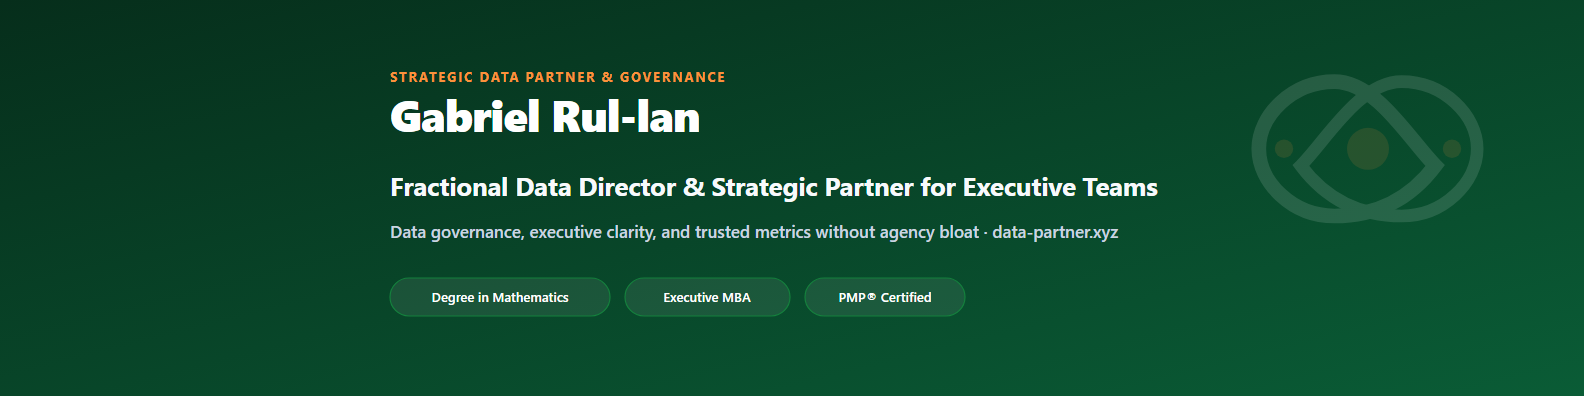
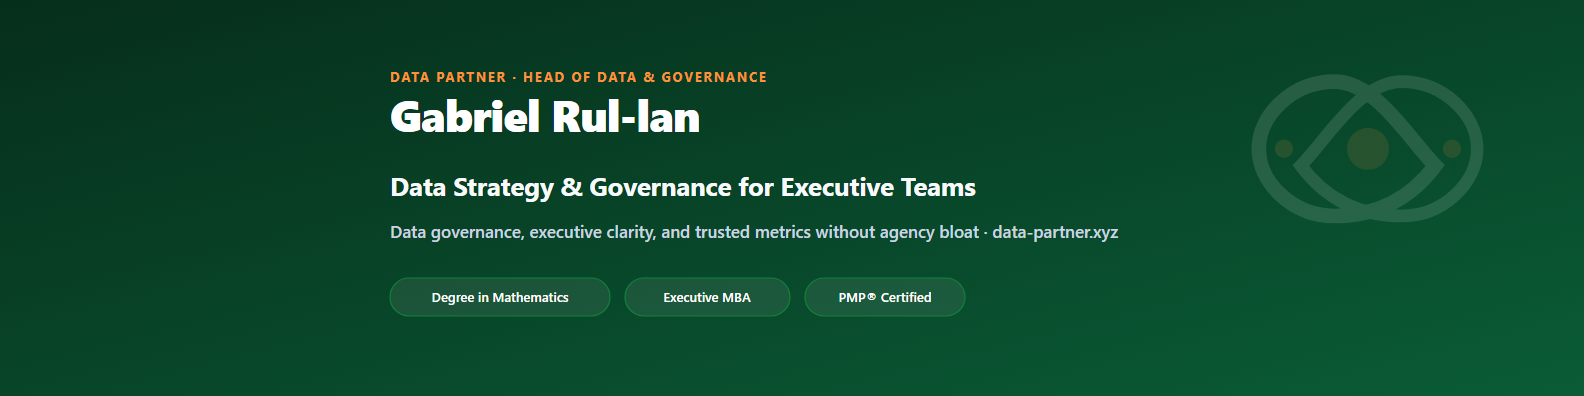
Use Data Partner as primary brand identity and replace Fraccional in Brand Kit

Changed region(s): [[0.2475, 0.4545, 0.7424, 0.5152], [0.2475, 0.1818, 0.4949, 0.2121]]

diff --git a/web/brand/index.html b/web/brand/index.html
@@ -98,7 +98,7 @@
                 </header>
 
                 <div class="matrix-logo-preview">
-                  <img src="./assets/logos/p1-logo-es-light.svg" alt="Propuesta 1: El Socio Analítico - Logotipo principal" width="220" height="40">
+                  <img src="./assets/logos/p1-logo-en-light.svg" alt="Propuesta 1: El Socio Analítico - Logotipo principal" width="220" height="40">
                 </div>
 
                 <h4 class="matrix-section-title">Concepto &amp; Filosofía</h4>
@@ -135,7 +135,7 @@
                 </header>
 
                 <div class="matrix-logo-preview">
-                  <img src="./assets/logos/p2-logo-es-light.svg" alt="Propuesta 2: El Socio Colaborativo - Logotipo principal" width="220" height="40">
+                  <img src="./assets/logos/p2-logo-en-light.svg" alt="Propuesta 2: El Socio Colaborativo - Logotipo principal" width="220" height="40">
                 </div>
 
                 <h4 class="matrix-section-title">Concepto &amp; Filosofía</h4>
@@ -172,7 +172,7 @@
                 </header>
 
                 <div class="matrix-logo-preview">
-                  <img src="./assets/logos/p3-logo-es-light.svg" alt="Propuesta 3: El Socio Corporativo - Logotipo principal" width="220" height="40">
+                  <img src="./assets/logos/p3-logo-en-light.svg" alt="Propuesta 3: El Socio Corporativo - Logotipo principal" width="220" height="40">
                 </div>
 
                 <h4 class="matrix-section-title">Concepto &amp; Filosofía</h4>
@@ -209,7 +209,7 @@
                 </header>
 
                 <div class="matrix-logo-preview">
-                  <img src="./assets/logos/p4-logo-es-light.svg" alt="Propuesta 4: El Socio de Confianza - Logotipo principal" width="220" height="40">
+                  <img src="./assets/logos/p4-logo-en-light.svg" alt="Propuesta 4: El Socio de Confianza - Logotipo principal" width="220" height="40">
                 </div>
 
                 <h4 class="matrix-section-title">Concepto &amp; Filosofía</h4>
@@ -309,12 +309,12 @@
             <div class="bizcard-inner">
               <div class="bizcard-face bizcard-front">
                 <div class="bizcard-front-top">
-                  <img id="bizcardLogo" class="bizcard-front-logo" src="./assets/logos/p1-logo-es-light.svg" alt="Gabriel Rul-lan Logotipo Anverso">
+                  <img id="bizcardLogo" class="bizcard-front-logo" src="./assets/logos/p1-logo-en-light.svg" alt="Gabriel Rul-lan Logotipo Anverso">
                   <div class="bizcard-front-chip"></div>
                 </div>
                 <div class="bizcard-front-bottom">
                   <div class="bizcard-name">Gabriel Rul-lan</div>
-                  <div class="bizcard-title">Director de Datos Fraccional &amp; Socio Estratégico</div>
+                  <div class="bizcard-title">Data Partner · Dirección de Datos y Estrategia</div>
                   <div class="bizcard-contact">gabriel@data-partner.xyz · data-partner.xyz</div>
                 </div>
               </div>
@@ -342,7 +342,7 @@
                   <span class="linkedin-name">Gabriel Rul-lan</span>
                   <span class="linkedin-badge" aria-label="Perfil verificado">✓</span>
                 </div>
-                <p class="linkedin-headline">Director de Datos Fraccional &amp; Socio Estratégico · Matemático &amp; MBA · PMP® · Claridad de datos para comités de dirección</p>
+                <p class="linkedin-headline">Data Partner · Dirección de Datos y Estrategia · Matemático &amp; MBA · PMP® · Claridad de datos para comités de dirección</p>
               </div>
             </div>
           </div>
@@ -355,7 +355,7 @@
           <div class="a4-mockup-wrapper">
             <div class="a4-sheet">
               <div>
-                <img id="a4Logo" class="a4-top-logo" src="./assets/logos/p1-logo-es-light.svg" alt="Logotipo Portada Informe">
+                <img id="a4Logo" class="a4-top-logo" src="./assets/logos/p1-logo-en-light.svg" alt="Logotipo Portada Informe">
               </div>
               <div>
                 <div class="a4-badge">Confidencial · Comité de Dirección</div>

diff --git a/web/brand/js/brand.js b/web/brand/js/brand.js
@@ -30,32 +30,32 @@
       accent: '#C2410C',
       muted: '#64748B',
       border: '#E2E8F0',
-      taglineEs: 'Director de Datos Fraccional & Socio Estratégico',
-      taglineEn: 'Fractional Data Director & Strategic Partner'
+      taglineEs: 'Data Partner · Dirección de Datos y Estrategia',
+      taglineEn: 'Data Partner · Fractional Head of Data & Governance'
     },
     p2: {
       primary: '#0A5C36',
       accent: '#EA580C',
       muted: '#4B5563',
       border: '#E5E7EB',
-      taglineEs: 'Director de Datos Fraccional & Socio Estratégico',
-      taglineEn: 'Fractional Data Director & Strategic Partner'
+      taglineEs: 'Data Partner · Dirección de Datos y Estrategia',
+      taglineEn: 'Data Partner · Fractional Head of Data & Governance'
     },
     p3: {
       primary: '#0B132B',
       accent: '#D97706',
       muted: '#475569',
       border: '#CBD5E1',
-      taglineEs: 'Director de Datos Fraccional & Socio Estratégico',
-      taglineEn: 'Fractional Data Director & Strategic Partner'
+      taglineEs: 'Data Partner · Dirección de Datos y Estrategia',
+      taglineEn: 'Data Partner · Fractional Head of Data & Governance'
     },
     p4: {
       primary: '#0F4C5C',
       accent: '#E36414',
       muted: '#52525B',
       border: '#E2E8F0',
-      taglineEs: 'Director de Datos Fraccional & Socio Estratégico',
-      taglineEn: 'Fractional Data Director & Strategic Partner'
+      taglineEs: 'Data Partner · Dirección de Datos y Estrategia',
+      taglineEn: 'Data Partner · Fractional Head of Data & Governance'
     }
   };
 
@@ -368,7 +368,7 @@
     // 5. Component Sandbox explicit assets
     var bizLogo = document.getElementById('bizcardLogo');
     if (bizLogo) {
-      bizLogo.src = './assets/logos/' + proposalId + '-logo-es-light.svg';
+      bizLogo.src = './assets/logos/' + proposalId + '-logo-en-light.svg';
     }
 
     var bizMark = document.getElementById('bizcardMark');
@@ -383,7 +383,7 @@
 
     var a4Logo = document.getElementById('a4Logo');
     if (a4Logo) {
-      a4Logo.src = './assets/logos/' + proposalId + '-logo-es-light.svg';
+      a4Logo.src = './assets/logos/' + proposalId + '-logo-en-light.svg';
     }
 
     // 6. Update Email Signature

diff --git a/web/brand/templates/a4-report.html b/web/brand/templates/a4-report.html
@@ -384,7 +384,7 @@
     <header class="doc-header">
       <div class="brand-block">
         <h1>Gabriel Rul-lan</h1>
-        <div class="brand-subtitle">Dirección de Datos &amp; Alianza Estratégica</div>
+        <div class="brand-subtitle">Data Partner · Dirección de Datos y Estrategia</div>
       </div>
       <div class="meta-block">
         <div><strong>Documento:</strong> HRD-14D-CONFIDENCIAL</div>
@@ -477,7 +477,7 @@
     <div class="sign-section">
       <div class="author-block">
         <h3>Gabriel Rul-lan</h3>
-        <p><strong>Director de Datos Fraccional &amp; Socio Estratégico</strong></p>
+        <p><strong>Data Partner · Dirección de Datos y Estrategia</strong></p>
         <p>Licenciado en Matemáticas · Executive MBA · Certificación PMP®</p>
         <p>gabriel@data-partner.xyz · data-partner.xyz</p>
       </div>

diff --git a/web/brand/assets/signatures/signature-p1-en.html b/web/brand/assets/signatures/signature-p1-en.html
@@ -13,7 +13,7 @@
         </tr>
         <tr>
           <td style="font-size: 12px; font-weight: 600; color: #C2410C; text-transform: uppercase; letter-spacing: 0.05em; padding-top: 2px;">
-            Fractional Data Director &amp; Strategic Partner
+            Data Partner · Fractional Head of Data &amp; Governance
           </td>
         </tr>
         <tr>

diff --git a/web/brand/assets/signatures/signature-p2-en.html b/web/brand/assets/signatures/signature-p2-en.html
@@ -13,7 +13,7 @@
         </tr>
         <tr>
           <td style="font-size: 12px; font-weight: 600; color: #EA580C; text-transform: uppercase; letter-spacing: 0.05em; padding-top: 2px;">
-            Fractional Data Director &amp; Strategic Partner
+            Data Partner · Fractional Head of Data &amp; Governance
           </td>
         </tr>
         <tr>

diff --git a/web/brand/assets/signatures/signature-p3-en.html b/web/brand/assets/signatures/signature-p3-en.html
@@ -13,7 +13,7 @@
         </tr>
         <tr>
           <td style="font-size: 12px; font-weight: 600; color: #D97706; text-transform: uppercase; letter-spacing: 0.05em; padding-top: 2px;">
-            Fractional Data Director &amp; Strategic Partner
+            Data Partner · Fractional Head of Data &amp; Governance
           </td>
         </tr>
         <tr>

diff --git a/web/brand/assets/signatures/signature-p4-en.html b/web/brand/assets/signatures/signature-p4-en.html
@@ -13,7 +13,7 @@
         </tr>
         <tr>
           <td style="font-size: 12px; font-weight: 600; color: #E36414; text-transform: uppercase; letter-spacing: 0.05em; padding-top: 2px;">
-            Fractional Data Director &amp; Strategic Partner
+            Data Partner · Fractional Head of Data &amp; Governance
           </td>
         </tr>
         <tr>

diff --git a/web/brand/assets/signatures/signature-p1-es.html b/web/brand/assets/signatures/signature-p1-es.html
@@ -13,7 +13,7 @@
         </tr>
         <tr>
           <td style="font-size: 12px; font-weight: 600; color: #C2410C; text-transform: uppercase; letter-spacing: 0.05em; padding-top: 2px;">
-            Director de Datos Fraccional &amp; Socio Estratégico
+            Data Partner · Dirección de Datos y Estrategia
           </td>
         </tr>
         <tr>

diff --git a/web/brand/assets/signatures/signature-p2-es.html b/web/brand/assets/signatures/signature-p2-es.html
@@ -13,7 +13,7 @@
         </tr>
         <tr>
           <td style="font-size: 12px; font-weight: 600; color: #EA580C; text-transform: uppercase; letter-spacing: 0.05em; padding-top: 2px;">
-            Director de Datos Fraccional &amp; Socio Estratégico
+            Data Partner · Dirección de Datos y Estrategia
           </td>
         </tr>
         <tr>

diff --git a/web/brand/assets/signatures/signature-p3-es.html b/web/brand/assets/signatures/signature-p3-es.html
@@ -13,7 +13,7 @@
         </tr>
         <tr>
           <td style="font-size: 12px; font-weight: 600; color: #D97706; text-transform: uppercase; letter-spacing: 0.05em; padding-top: 2px;">
-            Director de Datos Fraccional &amp; Socio Estratégico
+            Data Partner · Dirección de Datos y Estrategia
           </td>
         </tr>
         <tr>

diff --git a/web/brand/assets/signatures/signature-p4-es.html b/web/brand/assets/signatures/signature-p4-es.html
@@ -13,7 +13,7 @@
         </tr>
         <tr>
           <td style="font-size: 12px; font-weight: 600; color: #E36414; text-transform: uppercase; letter-spacing: 0.05em; padding-top: 2px;">
-            Director de Datos Fraccional &amp; Socio Estratégico
+            Data Partner · Dirección de Datos y Estrategia
           </td>
         </tr>
         <tr>

diff --git a/tests/test_brand_kit.py b/tests/test_brand_kit.py
@@ -636,12 +636,12 @@ class TestBrandKit(unittest.TestCase):
         self.driver.evaluate("document.querySelector('[data-signature-lang=\"en\"]').click()")
         time.sleep(0.2)
         en_preview = self.driver.evaluate("document.getElementById('signaturePreview').textContent")
-        self.assertIn("Fractional Data Director", en_preview)
+        self.assertIn("Data Partner · Fractional Head of Data", en_preview)
 
         self.driver.evaluate("document.querySelector('[data-signature-lang=\"es\"]').click()")
         time.sleep(0.2)
         es_preview = self.driver.evaluate("document.getElementById('signaturePreview').textContent")
-        self.assertIn("Director de Datos Fraccional", es_preview)
+        self.assertIn("Data Partner · Dirección de Datos y Estrategia", es_preview)
 
         # Clear toast and test visual copy
         self.driver.evaluate("""
